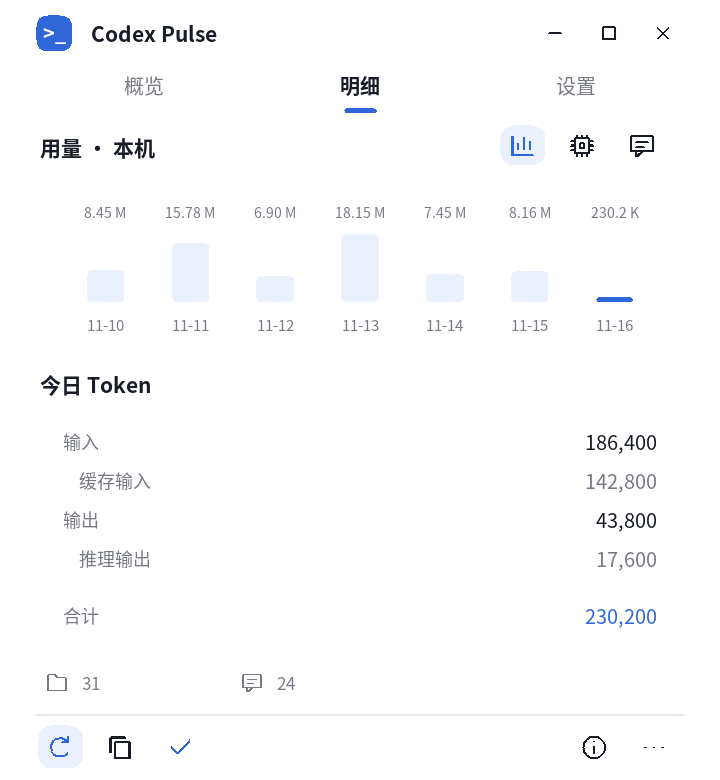
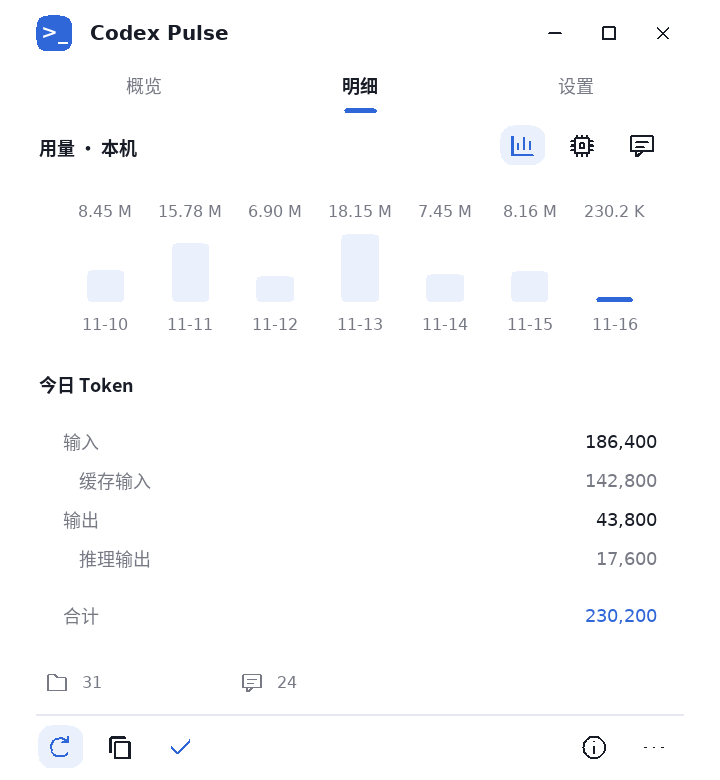
Refine Chinese and Latin typography and release 1.0.10

diff --git a/src/main.cpp b/src/main.cpp
@@ -60,16 +60,47 @@ struct Palette {
 };
 Palette colors;
 std::map<int, HWND> controls;
+namespace TypeSize {
+constexpr float caption = 10.5f, body = 12.f, heading = 12.f, title = 13.f;
+constexpr float navigation = 12.f, quota = 20.f, metric = 18.f, listValue = 13.f;
+} // namespace TypeSize
 std::wstring uiFont = L"Segoe UI";
+std::wstring latinFont = L"Segoe UI", latinEmphasisFont;
 void chooseFont() {
     for (auto name : {L"Microsoft YaHei UI", L"Microsoft YaHei", L"Noto Sans CJK SC", L"Segoe UI", L"Arial",
                       L"DejaVu Sans"}) {
         FontFamily family(name);
         if (family.IsAvailable()) {
             uiFont = name;
-            return;
+            break;
         }
     }
+    latinFont = uiFont;
+    for (auto name : {L"Segoe UI", L"Noto Sans", L"Arial", L"DejaVu Sans"}) {
+        FontFamily family(name);
+        if (family.IsAvailable()) {
+            latinFont = name;
+            break;
+        }
+    }
+    latinEmphasisFont.clear();
+    FontFamily semibold(L"Segoe UI Semibold");
+    if (latinFont == L"Segoe UI" && semibold.IsAvailable())
+        latinEmphasisFont = L"Segoe UI Semibold";
+}
+struct TextFace {
+    const wchar_t *family;
+    INT style;
+};
+TextFace textFace(const std::wstring &value, bool emphasis = false) {
+    // Keep mixed Chinese/English strings in one family so their baseline and
+    // punctuation stay together. Latin-only labels and numbers use the UI face.
+    const bool latin = std::all_of(value.begin(), value.end(), [](wchar_t ch) {
+        return ch <= 0x024f || (ch >= 0x2000 && ch <= 0x206f);
+    });
+    if (latin && emphasis && !latinEmphasisFont.empty())
+        return {latinEmphasisFont.c_str(), FontStyleRegular};
+    return {(latin ? latinFont : uiFont).c_str(), emphasis ? FontStyleBold : FontStyleRegular};
 }
 int px(float x) {
     return static_cast<int>(std::lround(x * dpiScale));
@@ -123,7 +154,8 @@ void divider(Graphics &g, float y, float width) {
 }
 void text(Graphics &g, const std::wstring &s, float x, float y, float w, float h, float fontSize, Color c,
           bool bold = false, StringAlignment align = StringAlignmentNear, bool wrap = false) {
-    Font f(uiFont.c_str(), fontSize, bold ? FontStyleBold : FontStyleRegular, UnitPixel);
+    const auto face = textFace(s, bold);
+    Font f(face.family, fontSize, face.style, UnitPixel);
     StringFormat fmt;
     fmt.SetAlignment(align);
     fmt.SetLineAlignment(StringAlignmentCenter);
@@ -138,23 +170,25 @@ void fittedNumber(Graphics &g, const std::wstring &value, float x, float y, floa
     format.SetFormatFlags(StringFormatFlagsNoWrap);
     format.SetLineAlignment(StringAlignmentCenter);
     format.SetTrimming(StringTrimmingNone);
-    float fontSize = 22.f;
-    Font initial(uiFont.c_str(), fontSize, FontStyleBold, UnitPixel);
+    float fontSize = TypeSize::metric;
+    const auto face = textFace(value);
+    Font initial(face.family, fontSize, face.style, UnitPixel);
     RectF measured;
     g.MeasureString(value.c_str(), -1, &initial, PointF(0, 0), &format, &measured);
     if (measured.Width > w - 2)
         fontSize *= std::max(0.4f, (w - 2) / measured.Width);
-    Font fitted(uiFont.c_str(), fontSize, FontStyleBold, UnitPixel);
+    Font fitted(face.family, fontSize, face.style, UnitPixel);
     SolidBrush brush(colors.text);
     g.DrawString(value.c_str(), -1, &fitted, RectF(x, y, w, h), &format, &brush);
 }
 void label(Graphics &g, const std::wstring &name, const std::wstring &value, float y, float width,
            Color valueColor) {
-    text(g, name, 40, y, width * .50f, 28, 12, colors.muted);
-    text(g, value, width * .50f, y, width * .50f - 40, 28, 13, valueColor, false, StringAlignmentFar);
+    text(g, name, 40, y, width * .50f, 28, TypeSize::body, colors.muted);
+    text(g, value, width * .50f, y, width * .50f - 40, 28, TypeSize::body, valueColor, false,
+         StringAlignmentFar);
 }
 void section(Graphics &g, const std::wstring &s, float y, float w) {
-    text(g, s, 24, y, w - 48, 24, 14, colors.text, true);
+    text(g, s, 24, y, w - 48, 24, TypeSize::heading, colors.text, true);
 }
 std::wstring sourceLabel() {
     if (demo)
@@ -177,44 +211,45 @@ RectF quotaBounds(size_t index, float width) {
 }
 void drawQuota(Graphics &g, const Window &q, const RectF &r) {
     const float x = r.X, y = r.Y, width = r.Width;
-    text(g, windowName(q), x, y + 6, width, 20, 12, colors.text, true);
+    text(g, windowName(q), x, y + 6, width, 20, TypeSize::body, colors.text);
     Color tone = q.used >= 90 ? colors.warning : colors.accent;
-    text(g, percent(q.used), x, y + 26, width - 30, 32, 26, tone, true);
-    text(g, L"已用", r.GetRight() - 30, y + 36, 30, 18, 9, colors.muted, false, StringAlignmentFar);
+    text(g, percent(q.used), x, y + 26, width - 30, 32, TypeSize::quota, tone);
+    text(g, L"已用", r.GetRight() - 30, y + 36, 30, 18, TypeSize::caption, colors.muted, false,
+         StringAlignmentFar);
     rounded(g, RectF(x, y + 64, width, 5), 2.5f, colors.line);
     if (q.valid() && q.used > 0)
         rounded(g, RectF(x, y + 64, width * static_cast<float>(q.used / 100), 5), 2.5f, tone);
     text(g, q.reset ? L"重置 " + timestamp(q.reset) : L"重置时间未提供", x, y + RESET_ROW, width,
-         18, 10, colors.muted);
+         18, TypeSize::caption, colors.muted);
     text(g, q.reset ? duration(q.reset - std::time(nullptr)) : L"—", x, y + RESET_ROW + 18,
-         width, 18, 10, colors.muted);
+         width, 18, TypeSize::caption, colors.muted);
 }
 float drawOverview(Graphics &g, float w) {
     // Three peer sections on one surface: account, quota, and local activity.
     float y = SUMMARY_TOP;
     text(g, wide(snap.account.empty() ? "未连接账户" : snap.account), 24, y, w - 192,
-         24, 14, colors.text, true);
+         24, TypeSize::body, colors.text);
     const auto state = demo                           ? L"演示数据"
                        : busy                         ? L"正在刷新"
                        : snap.cached                  ? L"在线缓存"
                        : snap.quota.source == "local" ? L"本地快照"
                        : snap.online                  ? L"已连接"
                                                       : L"未连接";
-    text(g, L"●  " + std::wstring(state), w - 144, y, 120, 24, 10,
+    text(g, L"●  " + std::wstring(state), w - 144, y, 120, 24, TypeSize::caption,
          snap.cached ? colors.warning : colors.muted, false, StringAlignmentFar);
     const auto credits = snap.quota.unlimited ? L"∞" : snap.quota.creditBalance.empty()
                                                         ? L"—" : wide(snap.quota.creditBalance);
     const auto plan = wide(snap.quota.plan.empty() ? "订阅未提供" : snap.quota.plan);
-    text(g, plan + L"  ·  " + credits + L" Credits", 24, y + 26, w - 48, 20, 11, colors.muted);
+    text(g, plan + L"  ·  " + credits + L" Credits", 24, y + 26, w - 48, 20, TypeSize::caption, colors.muted);
     divider(g, y + 56, w);
     section(g, L"账户额度", QUOTA_TOP - 30, w);
-    text(g, L"采样 " + timestamp(snap.quota.observed), w - 194, QUOTA_TOP - 28, 170, 20, 9,
+    text(g, L"采样 " + timestamp(snap.quota.observed), w - 194, QUOTA_TOP - 28, 170, 20, TypeSize::caption,
          colors.muted, false, StringAlignmentFar);
     const int rows = std::max(1, static_cast<int>((snap.quota.windows.size() + 1) / 2));
     if (snap.quota.windows.empty()) {
         drawGlyph(g, Glyph::Cloud, 24, QUOTA_TOP + 12, 18, colors.muted);
-        text(g, L"暂无额度数据", 52, QUOTA_TOP + 6, w - 76, 26, 12, colors.text, true);
-        text(g, wide(snap.status), 24, QUOTA_TOP + 40, w - 48, 44, 11, colors.muted, false,
+        text(g, L"暂无额度数据", 52, QUOTA_TOP + 6, w - 76, 26, TypeSize::body, colors.text);
+        text(g, wide(snap.status), 24, QUOTA_TOP + 40, w - 48, 44, TypeSize::body, colors.muted, false,
              StringAlignmentNear, true);
     } else {
         for (size_t i = 0; i < snap.quota.windows.size(); ++i)
@@ -230,12 +265,12 @@ float drawOverview(Graphics &g, float w) {
                                                                {L"30 天", snap.activity.month.total}}};
     for (size_t i = 0; i < totals.size(); ++i) {
         const float x = 24 + static_cast<float>(i) * columnWidth;
-        text(g, totals[i].first, x, y + 32, columnWidth - 16, 18, 10, colors.muted);
+        text(g, totals[i].first, x, y + 32, columnWidth - 16, 18, TypeSize::caption, colors.muted);
         fittedNumber(g, shortCount(totals[i].second), x, y + 52, columnWidth - 16, 30);
     }
     y += 94;
     if (snap.quota.limitReached) {
-        text(g, L"额度已达上限", 24, y, w - 48, 24, 11, colors.warning);
+        text(g, L"额度已达上限", 24, y, w - 48, 24, TypeSize::body, colors.warning);
         y += 28;
     }
     return y;
@@ -267,29 +302,29 @@ float drawActivity(Graphics &g, float w) {
         std::sort(models.begin(), models.end(),
                   [](auto &a, auto &b) { return a.second.total > b.second.total; });
         if (first == last) {
-            text(g, L"暂无记录", 40, y, w - 80, 44, 12, colors.muted);
+            text(g, L"暂无记录", 40, y, w - 80, 44, TypeSize::body, colors.muted);
         }
         for (int i = first; i < last; ++i) {
             if (i > first)
                 divider(g, y - 4, w);
             if (activityView == 1) {
                 drawGlyph(g, Glyph::Models, 40, y + 14, 20, colors.muted);
-                text(g, wide(models[i].first), 72, y + 8, w - 242, 32, 12, colors.text, true);
-                text(g, shortCount(models[i].second.total), w - 176, y + 8, 134, 32, 15, colors.accent, true,
-                     StringAlignmentFar);
+                text(g, wide(models[i].first), 72, y + 8, w - 242, 32, TypeSize::body, colors.text);
+                text(g, shortCount(models[i].second.total), w - 176, y + 8, 134, 32, TypeSize::listValue,
+                     colors.accent, false, StringAlignmentFar);
             } else {
                 const auto &item = snap.activity.recent[i];
-                text(g, wide(item.model), 40, y + 3, w - 218, 23, 12, colors.text, true);
+                text(g, wide(item.model), 40, y + 3, w - 218, 23, TypeSize::body, colors.text);
                 text(g, timestamp(item.last) + L"  ·  " + wide(item.id.substr(0, 8)), 40, y + 24, w - 218, 18,
-                     10, colors.muted);
-                text(g, shortCount(item.total.total), w - 172, y + 8, 130, 32, 15, colors.accent, true,
-                     StringAlignmentFar);
+                     TypeSize::caption, colors.muted);
+                text(g, shortCount(item.total.total), w - 172, y + 8, 130, 32, TypeSize::listValue,
+                     colors.accent, false, StringAlignmentFar);
             }
             y += 56;
         }
         if (pageCount() > 1)
             text(g, std::to_wstring(activityPage + 1) + L" / " + std::to_wstring(pageCount()), w / 2 - 40,
-                 h - FOOTER - 31, 80, 26, 11, colors.muted, false, StringAlignmentCenter);
+                 h - FOOTER - 31, 80, 26, TypeSize::caption, colors.muted, false, StringAlignmentCenter);
         return h - FOOTER - 4;
     }
     float chartHeight = std::clamp(h - FOOTER - y - 246, 84.f, 138.f);
@@ -308,10 +343,11 @@ float drawActivity(Graphics &g, float w) {
     float col = (w - 84) / 7, baseline = y + chartHeight - 29, barMax = chartHeight - 61;
     for (int i = 0; i < 7; ++i) {
         float x = 42 + i * col, bh = static_cast<float>(totals[i]) * barMax / static_cast<float>(peak);
-        text(g, shortCount(totals[i]), x, y + 7, col, 20, 9, colors.muted, false, StringAlignmentCenter);
+        text(g, shortCount(totals[i]), x, y + 7, col, 20, TypeSize::caption, colors.muted, false,
+             StringAlignmentCenter);
         rounded(g, RectF(x + col * .28f, baseline - std::max(3.f, bh), col * .44f, std::max(3.f, bh)), 3,
                 i == 6 ? colors.accent : colors.soft);
-        text(g, wide(days[i].substr(5)), x, baseline + 6, col, 19, 10, colors.muted, false,
+        text(g, wide(days[i].substr(5)), x, baseline + 6, col, 19, TypeSize::caption, colors.muted, false,
              StringAlignmentCenter);
     }
     y += chartHeight + 14;
@@ -324,13 +360,13 @@ float drawActivity(Graphics &g, float w) {
     label(g, L"合计", count(snap.activity.today.total), y + 124, w, colors.accent);
     y += 172;
     drawGlyph(g, Glyph::Folder, 30, y + 3, 16, colors.muted);
-    text(g, std::to_wstring(snap.activity.files), 53, y, w / 4, 22, 11, colors.muted);
+    text(g, std::to_wstring(snap.activity.files), 53, y, w / 4, 22, TypeSize::caption, colors.muted);
     drawGlyph(g, Glyph::Session, w / 3, y + 3, 16, colors.muted);
-    text(g, std::to_wstring(snap.activity.sessions), w / 3 + 23, y, w / 4, 22, 11, colors.muted);
+    text(g, std::to_wstring(snap.activity.sessions), w / 3 + 23, y, w / 4, 22, TypeSize::caption, colors.muted);
     if (snap.activity.partial || snap.activity.malformed) {
         drawGlyph(g, Glyph::Warning, w - 144, y + 3, 16, colors.warning);
         text(g, snap.activity.partial ? L"索引中" : std::to_wstring(snap.activity.malformed), w - 121, y, 96,
-             22, 11, colors.warning, false, StringAlignmentFar);
+             22, TypeSize::caption, colors.warning, false, StringAlignmentFar);
     }
     return y + 30;
 }
@@ -369,7 +405,8 @@ float drawSettings(Graphics &g, float w) {
     y += 28;
     divider(g, y + 88, w);
     auto home = settings.home.empty() ? defaultHome() : fs::path(settings.home);
-    text(g, home.wstring(), 40, y + 8, w - 80, 30, 11, colors.text, false, StringAlignmentNear, true);
+    text(g, home.wstring(), 40, y + 8, w - 80, 30, TypeSize::body, colors.text, false,
+         StringAlignmentNear, true);
     y += 96;
     drawGlyph(g, Glyph::Cloud, 40, y + 12, 20, colors.muted);
     text(g,
@@ -378,7 +415,7 @@ float drawSettings(Graphics &g, float w) {
          : snap.authSource == "Windows 凭据管理器"
              ? L"系统凭据"
              : wide(snap.authSource.empty() ? "未连接" : snap.authSource),
-         72, y + 8, w - 112, 28, 12, colors.text);
+         72, y + 8, w - 112, 28, TypeSize::body, colors.text);
     return y + 56;
 }
 std::wstring controlTip(int id) {
@@ -386,7 +423,7 @@ std::wstring controlTip(int id) {
         return statusLabel() + L"\n" + sourceLabel() + L"\n" + timestamp(snap.quota.observed) +
                L"\n点击查看详情";
     if (id == ID_ABOUT)
-        return L"关于与说明 · 1.0.9";
+        return L"关于与说明 · 1.0.10";
     wchar_t label[256]{};
     auto it = controls.find(id);
     if (it != controls.end())
@@ -427,8 +464,8 @@ void updateTooltipFont() {
     if (!tooltip)
         return;
     HFONT next =
-        CreateFontW(-px(12), 0, 0, 0, FW_NORMAL, FALSE, FALSE, FALSE, DEFAULT_CHARSET, OUT_DEFAULT_PRECIS,
-                    CLIP_DEFAULT_PRECIS, CLEARTYPE_QUALITY, DEFAULT_PITCH | FF_DONTCARE, uiFont.c_str());
+        CreateFontW(-px(TypeSize::body), 0, 0, 0, FW_NORMAL, FALSE, FALSE, FALSE, DEFAULT_CHARSET,
+                    OUT_DEFAULT_PRECIS, CLIP_DEFAULT_PRECIS, CLEARTYPE_QUALITY, DEFAULT_PITCH | FF_DONTCARE, uiFont.c_str());
     if (next) {
         SendMessageW(tooltip, WM_SETFONT, reinterpret_cast<WPARAM>(next), TRUE);
         if (tooltipFont)
@@ -595,7 +632,7 @@ void paint() {
     divider(g, h - FOOTER, w);
     rounded(g, RectF(24, 10, 24, 24), 8, colors.accent);
     text(g, L">_", 24, 10, 24, 23, 13, Color(255, 255, 255), true, StringAlignmentCenter);
-    text(g, L"Codex Pulse", 58, 8, w - 196, 28, 14, colors.text, true);
+    text(g, L"Codex Pulse", 58, 8, w - 196, 28, TypeSize::title, colors.text, true);
     auto saved = g.Save();
     g.SetClip(RectF(0, BODY_TOP, w, std::max(1.f, h - BODY_TOP - FOOTER)));
     g.TranslateTransform(0, static_cast<float>(-scrollY));
@@ -716,7 +753,7 @@ void drawButton(const DRAWITEMSTRUCT *d) {
     float iconSize = tile ? 20.f : id >= ID_MINIMIZE ? 14.f : 19.f;
     if (navigation) {
         const wchar_t *labels[] = {L"概览", L"明细", L"设置"};
-        text(g, labels[id - ID_OVERVIEW], 0, 0, w, h - 8, 13,
+        text(g, labels[id - ID_OVERVIEW], 0, 0, w, h - 8, TypeSize::navigation,
              active ? colors.text : hoveredControl == id || focusVisible ? colors.accent : colors.muted,
              active, StringAlignmentCenter);
         if (active || focusVisible)
@@ -726,7 +763,7 @@ void drawButton(const DRAWITEMSTRUCT *d) {
     }
     if (id == ID_THEME || id == ID_INTERVAL)
         text(g, id == ID_THEME ? themeLabel() : std::to_wstring(settings.interval / 60) + L" min", 4, h - 22,
-             w - 8, 20, 10, colors.muted, false, StringAlignmentCenter);
+             w - 8, 20, TypeSize::caption, colors.muted, false, StringAlignmentCenter);
     else if (tile) {
         bool enabled = id == ID_ONLINE   ? settings.online
                        : id == ID_TRAY   ? settings.tray
@@ -994,7 +1031,7 @@ void refresh() {
 }
 std::wstring report() {
     std::wostringstream out;
-    out << L"Codex Pulse 1.0.9\r\n"
+    out << L"Codex Pulse 1.0.10\r\n"
         << (demo ? L"演示数据\r\n" : L"") << sourceLabel() << L"\r\n"
         << L"状态：" << wide(snap.status) << L"\r\n"
         << L"额度采样：" << timestamp(snap.quota.observed) << L"\r\n";
@@ -1176,7 +1213,7 @@ void command(int id) {
     }
     if (id == ID_ABOUT) {
         MessageBoxW(window,
-                    L"Codex Pulse 1.0.9\n\n只读本机登录与用量，仅向 chatgpt.com "
+                    L"Codex Pulse 1.0.10\n\n只读本机登录与用量，仅向 chatgpt.com "
                     L"查询额度。\n无遥测，不上传会话内容。\n\n账户额度与本机 Token "
                     L"统计口径不同。\n缓存输入已包含在输入中，推理输出已包含在输出中。\n独立工具，与 OpenAI "
                     L"无隶属关系。",

diff --git a/tests/render_tests.cpp b/tests/render_tests.cpp
@@ -128,6 +128,44 @@ int main() {
     instance = inst;
     demo = true;
     chooseFont();
+    // Measure the actual selected fonts: mixed scripts, dates and numbers must
+    // fit their existing rows at normal and scaled DPI without truncation.
+    struct TypeSample {
+        const wchar_t *value;
+        float size, width, height;
+        bool emphasis;
+    };
+    const TypeSample samples[] = {
+        {L"Codex Pulse", TypeSize::title, 200, 28, true},
+        {L"账户额度", TypeSize::heading, 160, 24, true},
+        {L"本机 Token", TypeSize::heading, 160, 24, true},
+        {L"5 小时额度", TypeSize::body, 180, 20, false},
+        {L"重置 11-16 18:30", TypeSize::caption, 192, 18, false},
+        {L"99.9%", TypeSize::quota, 120, 32, false},
+        {L"203.3 M", TypeSize::metric, 128, 30, false},
+        {L"gpt-5.1-codex", TypeSize::body, 192, 32, false},
+        {L"输入 / Input", TypeSize::body, 160, 28, false},
+        {L"8.45 M", TypeSize::caption, 55, 20, false},
+    };
+    for (int dpi : {96, 120, 144, 192}) {
+        Bitmap bitmap(800, 200, PixelFormat32bppARGB);
+        Graphics g(&bitmap);
+        g.ScaleTransform(dpi / 96.f, dpi / 96.f);
+        for (const auto &sample : samples) {
+            const auto face = textFace(sample.value, sample.emphasis);
+            Font font(face.family, sample.size, face.style, UnitPixel);
+            check(font.GetLastStatus() == Ok, "selected text face supports the requested weight");
+            StringFormat format;
+            format.SetFormatFlags(StringFormatFlagsNoWrap);
+            RectF bounds;
+            INT characters = 0, lines = 0;
+            check(g.MeasureString(sample.value, -1, &font, RectF(0, 0, sample.width, sample.height),
+                                  &format, &bounds, &characters, &lines) == Ok &&
+                      characters == static_cast<INT>(wcslen(sample.value)) && lines == 1 &&
+                      bounds.Width <= sample.width && bounds.Height <= sample.height,
+                  "Chinese, English and numeric text fits without clipping at each DPI");
+        }
+    }
     settings = Settings{};
     settings.theme = 1;
     snap = demoSnapshot();

diff --git a/VALIDATION.md b/VALIDATION.md
@@ -1,4 +1,13 @@
-# 验证记录 · 1.0.9
+# 验证记录 · 1.0.10
+
+## 1.0.10 · 中英文字体与字号整理 · 2026-11-16
+
+- Windows x64 GUI 交叉编译成功，版本资源更新为 1.0.10.0。
+- Wine 10.0 + Xvfb 下 1,516 项渲染与交互检查通过。新增检查使用实际选中的字体和字重，验证中文、中英混排、英文模型名、百分比、Token 数字和日期在 100% / 125% / 150% / 200% DPI 下可完整放入对应文本行。
+- 13 项实际 EXE 界面冒烟及 401 项浅／深主题重绘检查通过，涵盖托盘双击恢复、页面切换、复制报告和滚动重绘。
+- Linux 核心测试在 Asia/Shanghai 与 America/New_York 时区各 62 项通过。
+- 检查浅／深色概览及明细截图、100% / 125% / 150% DPI 的整窗截图，并更新仓库中的演示截图。
+- Wine 的字体可用性与回退结果不等同于真实 Windows。微软雅黑 UI / Segoe UI 的本机字体显示和多显示器硬件仍需在 Windows 上验收。
 
 ## 1.0.9 · 简化窗口层次 · 2026-11-16
 

diff --git a/CHANGELOG.md b/CHANGELOG.md
@@ -1,5 +1,12 @@
 # 更新记录
 
+## 1.0.10 · 2026-11-16
+
+- 统一字体和字号层级：品牌标题 13 DIP，分区标题／正文／导航 12 DIP，辅助文字 10.5 DIP；额度数字从 26 DIP 粗体改为 20 DIP 常规，Token 从 22 DIP 粗体改为 18 DIP 常规。
+- 账户、额度名称、模型名和明细数字减少粗体，只保留标题与选中导航的强调；辅助文字由原先 9–11 DIP 收敛为统一大小。
+- 中文和中英混排优先使用微软雅黑 UI，纯英文及数字优先使用 Segoe UI；英文标题优先使用 Segoe UI Semibold，缺失时回退。混排文字保持整行使用同一字体，避免基线错位。
+- 保留大数值自动缩放、浅／深主题、托盘和所有交互行为。
+
 ## 1.0.9 · 2026-11-16
 
 - 简化双击托盘后打开的窗口：删除日期工作台、渐变背景和卡片套卡片，账户摘要、额度与本机 Token 以平级区域直接排列。
